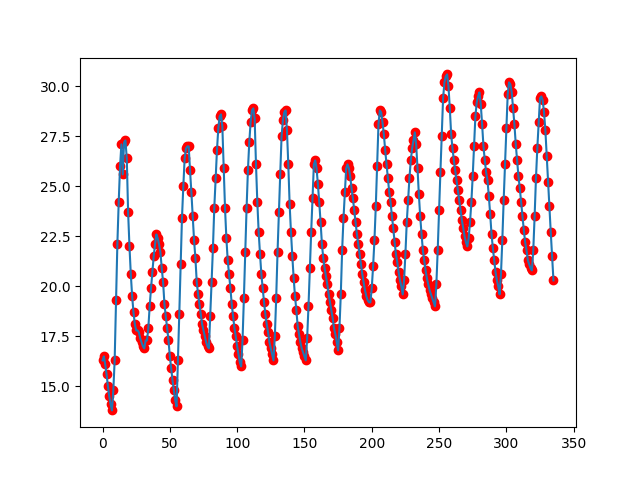
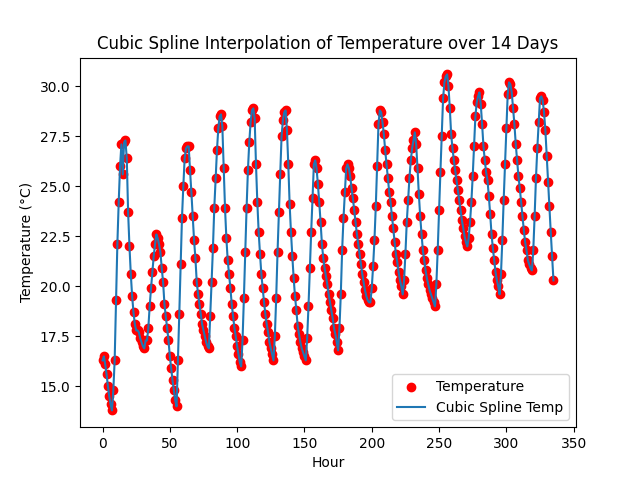
pretified data for temperature cubic spline

diff --git a/json_parser.py b/json_parser.py
@@ -35,8 +35,12 @@ if __name__ == "__main__":
     x_smooth = np.linspace(0, 24*14-1, 1000)
     x = np.arange(0, 24*14, 1)
     temps = [outdoor_temp_by_hour(xi) for xi in x]
-    plt.scatter(x, temps, label='temperature data', color='red')
+    plt.scatter(x, temps, label='Temperature', color='red')
 
     plt.plot(x, outdoor_temp_by_hour(x), label='Cubic Spline Temp')
 
+    plt.xlabel('Hour')
+    plt.ylabel('Temperature (\u00B0C)')
+    plt.title('Cubic Spline Interpolation of Temperature over 14 Days')
+    plt.legend()
     plt.savefig('misc/cubic_spline_temp.png')
